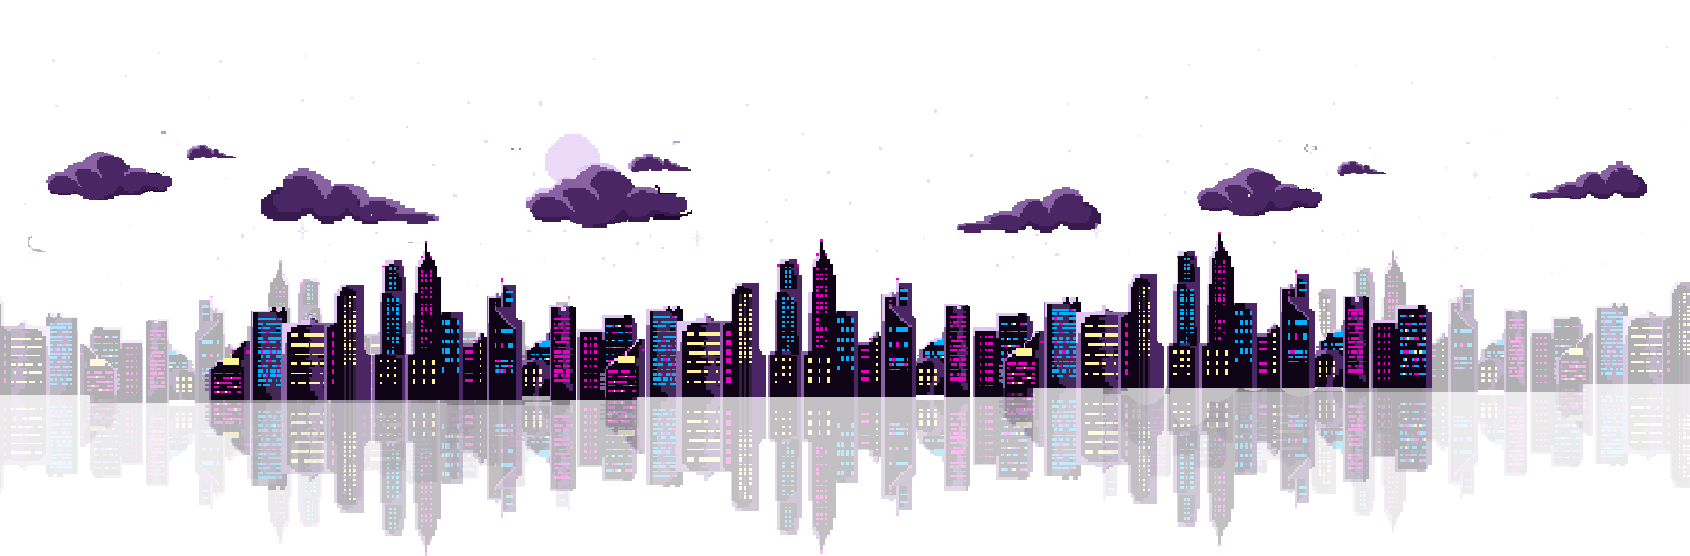
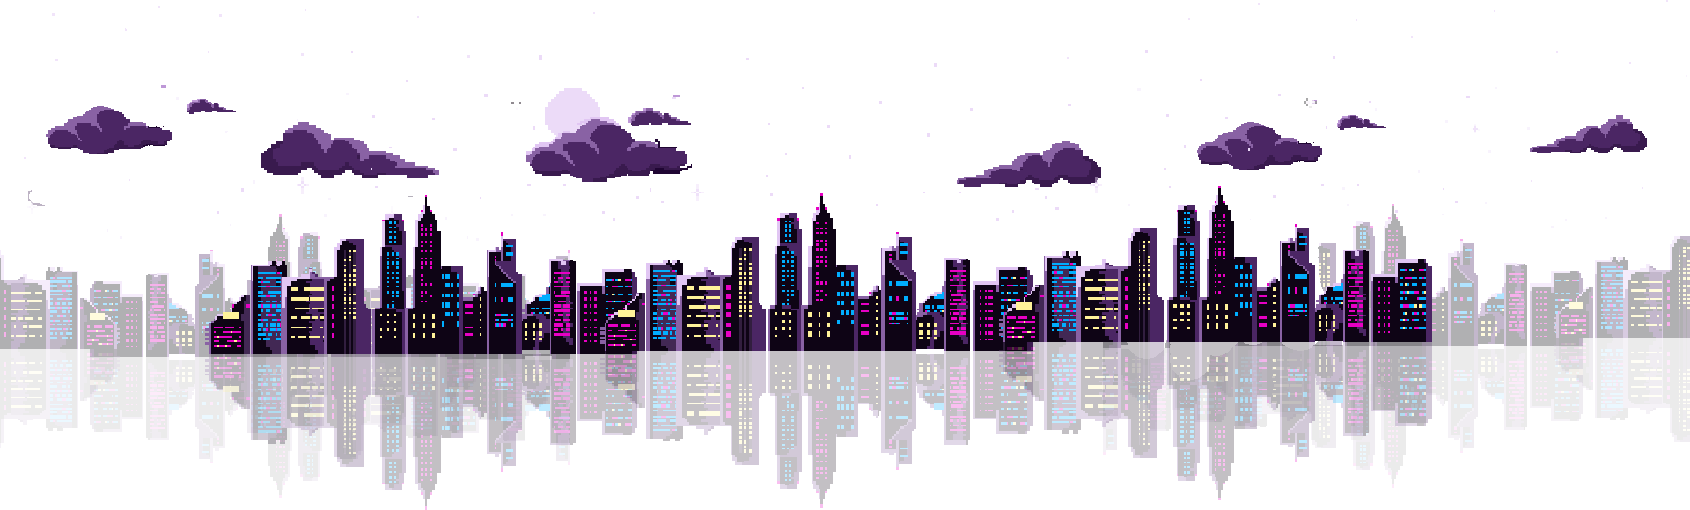
just the sky

diff --git a/app/assets/stylesheets/home.scss b/app/assets/stylesheets/home.scss
@@ -26,7 +26,7 @@ body {
 
 @media only screen and (min-width: 800px) {
   #cover {
-    @include background(image-url('city.png'), linear-gradient(#000, $base-background-color), no-repeat center fixed);
+    @include background(image-url('bg.png'), linear-gradient(#000, $base-background-color), no-repeat center fixed);
   }
 }
 
